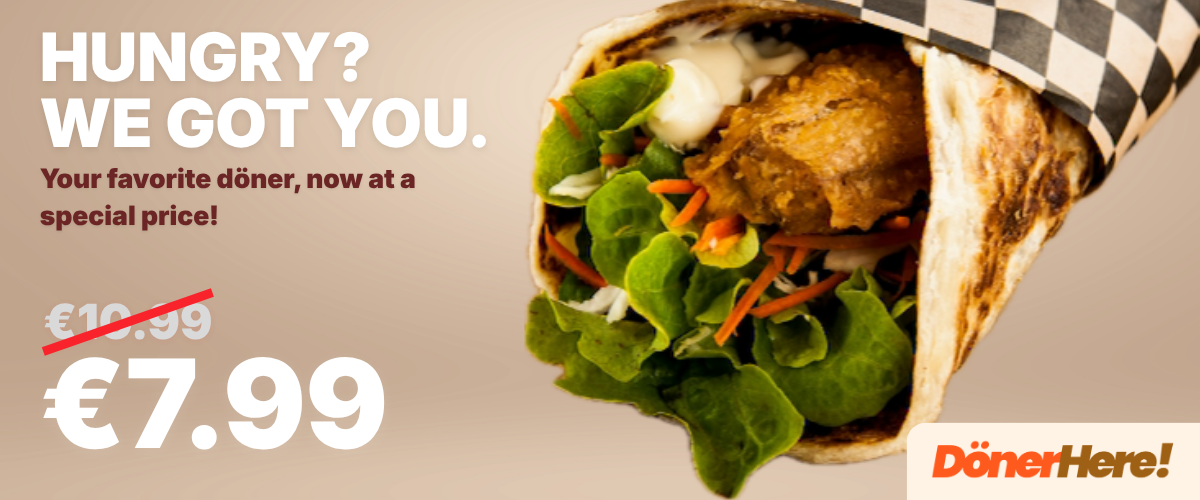
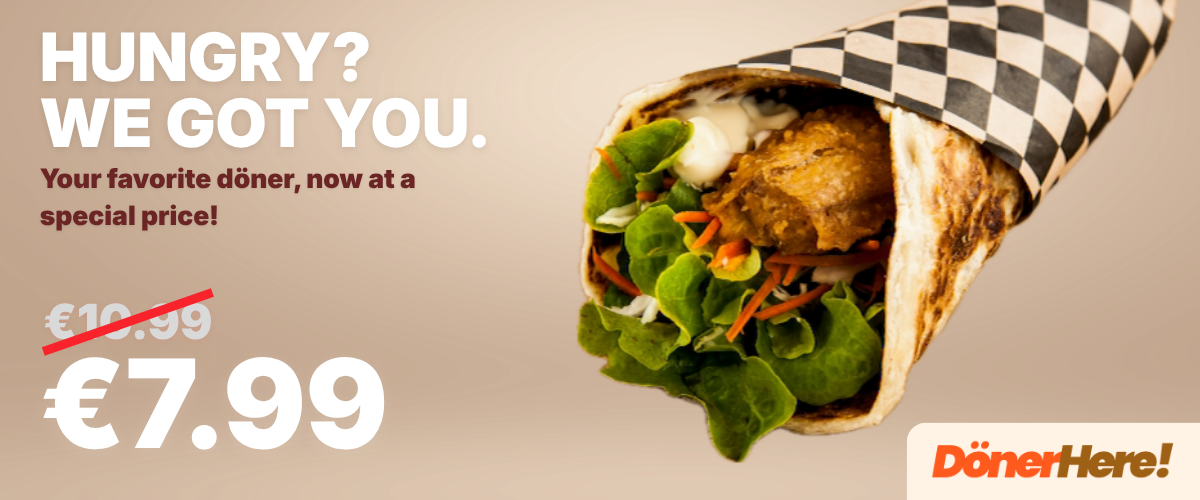
Menu Category Card

diff --git a/src/components/MenuCategoryCard.tsx b/src/components/MenuCategoryCard.tsx
@@ -1,0 +1,47 @@
+type MenuCategoryCardData = {
+  category: string;
+  image: string;
+  link: string;
+};
+
+function MenuCategoryCard({ category, image, link }: MenuCategoryCardData) {
+  return (
+    <>
+      <div className="lg:hidden bg-gray-100 hover:bg-orange-100 p-[10px] rounded-[15px] mr-[10px] ml-[10px]">
+        <a href={link}>
+          <div className="flex flex-1 flex">
+            <div className="w-[100px] h-[100px] flex justify-center">
+              <img
+                src={image}
+                className="object-contain bg-white rounded-[10px]"
+                alt=""
+              />
+            </div>
+            <div className="flex flex-1 justify-center items-center">
+              <p>{category}</p>
+            </div>
+          </div>
+        </a>
+      </div>
+
+      <div className="lg:block hidden max-w-[230px] max-h-[300px]">
+        <div className="bg-gray-100 hover:bg-orange-100 p-[15px] rounded-[15px] mr-[5px] ml-[5px] w-[230px] h-[300px]">
+          <a href={link}>
+            <div>
+              <img
+                src={image}
+                className="aspect-square w-[200px] h-[200px] object-contain bg-white rounded-[7px]"
+                alt=""
+              />
+            </div>
+            <div className="flex h-[80px] items-center justify-center">
+              <p>{category}</p>
+            </div>
+          </a>
+        </div>
+      </div>
+    </>
+  );
+}
+
+export default MenuCategoryCard;

diff --git a/src/pages/Home.tsx b/src/pages/Home.tsx
@@ -1,10 +1,37 @@
+import MenuCategoryCard from "../components/MenuCategoryCard";
 import PromotionCarousel from "../components/PromotionCarousel";
 
 function Home() {
   return (
-    <>
-      <PromotionCarousel></PromotionCarousel>
-    </>
+    <div className="flex justify-center lg:pl-[5px] lg:pr-[5px]">
+      <div className="max-w-[1200px]">
+        <PromotionCarousel></PromotionCarousel>
+        <div className="lg:flex justify-center mt-[10px]">
+          <div className="grid lg:grid-cols-4 gap-[15px]">
+            <MenuCategoryCard
+              category={"Döner Wraps"}
+              image={"src/assets/products/doner-wrap.png"}
+              link={"/menu/Doner-Wraps"}
+            ></MenuCategoryCard>
+            <MenuCategoryCard
+              category={"Fries"}
+              image={"src/assets/products/fries.png"}
+              link={"/menu"}
+            ></MenuCategoryCard>
+            <MenuCategoryCard
+              category={"Desserts"}
+              image={"src/assets/products/baklava.png"}
+              link={"/menu"}
+            ></MenuCategoryCard>
+            <MenuCategoryCard
+              category={"Drinks"}
+              image={"src/assets/products/ayran.png"}
+              link={"/menu"}
+            ></MenuCategoryCard>
+          </div>
+        </div>
+      </div>
+    </div>
   );
 }
 

diff --git a/src/components/Footer.tsx b/src/components/Footer.tsx
@@ -10,9 +10,7 @@ function Footer() {
               alt=""
             />
             <div className="flex flex-col">
-              <a className="hover:text-[#9e6014]" href="">
-                Address, Country
-              </a>
+              <a>Address, Country</a>
               <a className="hover:text-[#9e6014]" href="tel:">
                 Phone number
               </a>
@@ -22,7 +20,7 @@ function Footer() {
             </div>
           </div>
         </div>
-        <div className="flex flex-1 w-full h-full  justify-center items-center flex-col pt-[15px]">
+        <div className="flex flex-1 w-full h-full  justify-center items-center flex-col">
           <div className="flex flex-row md:gap-[40px] gap-[50px] justify-center">
             <div>
               <p className="opacity-50">Explore</p>
@@ -63,9 +61,7 @@ function Footer() {
           </div>
           <div className="md:hidden flex flex-col mt-[20px] text-center">
             <div className="flex flex-col">
-              <a className="hover:text-[#9e6014]" href="">
-                Address, Country
-              </a>
+              <a>Address, Country</a>
               <a className="hover:text-[#9e6014]" href="tel:">
                 Phone number
               </a>

diff --git a/src/components/PromotionCarousel.tsx b/src/components/PromotionCarousel.tsx
@@ -11,7 +11,7 @@ function PromotionCarousel() {
   return (
     <div className="flex w-full justify-center align-middle items-center group overflow-hidden">
       <Carousel
-        className="max-h-[500px] w-[100%] max-w-[1200px]"
+        className="max-h-[500px] max-w-[1200px] h-full w-full lg:rounder-[15px]"
         plugins={[
           Autoplay({
             delay: 5000,
@@ -25,7 +25,7 @@ function PromotionCarousel() {
               <img
                 src="src/assets/promotions/promotion.png"
                 alt=""
-                className="flex justify-center align-middle items-center w-full h-full md:rounded-[15px]"
+                className="flex justify-center align-middle items-center w-full h-full lg:rounded-[15px]"
               />
             </a>
           </CarouselItem>
@@ -34,7 +34,7 @@ function PromotionCarousel() {
               <img
                 src="src/assets/promotions/promotion2.png"
                 alt=""
-                className="flex justify-center align-middle items-center w-full h-full md:rounded-[15px]"
+                className="flex justify-center align-middle items-center w-full h-full lg:rounded-[15px]"
               />
             </a>
           </CarouselItem>

diff --git a/src/components/Navbar.tsx b/src/components/Navbar.tsx
@@ -106,9 +106,11 @@ function Navbar() {
             <SheetContent>
               <div className="flex w-full h-[15px]"></div>
               <div className="flex w-full h-full justify-center items-center">
-                <div className="text-[24px] font-bold p-[20px] text-center">
+                <div className="text-[24px] font-semibold  p-[20px] text-center">
                   <p>Your cart is empty</p>
-                  <p>Add something delicious!</p>
+                  <p className="text-[12px] text-gray-400">
+                    Add something delicious!
+                  </p>
                 </div>
               </div>
               <div>
@@ -162,7 +164,7 @@ function Navbar() {
             </SheetTrigger>
             <SheetContent>
               <div className="flex w-full h-[15px]"></div>
-              <div className="text-[24px] font-bold p-[20px]">
+              <div className="text-[24px] font-semibold p-[20px]">
                 <nav>
                   <a href="" className="flex w-full hover:text-[#9e6014]">
                     Menu

diff --git a/src/components/FoodCard.tsx b/src/components/FoodCard.tsx
@@ -7,10 +7,10 @@ type ProductCardData = {
 
 function ProductCard({ name, price, oldPrice, image }: ProductCardData) {
   return (
-    <div className="flex flex-col md:w-[250px] md:h-[350px] w-[180px] h-[300px] bg-gray-100 p-[15px] rounded-[15px]">
-      <div className="flex flex-col align-center overflow-hidden aspect-square md:h-[230px] h-[150px] max-h-[150px]">
+    <div className="flex flex-col sm:w-[250px] sm:h-[350px] w-[180px] h-[300px] bg-gray-100 p-[15px] rounded-[15px]">
+      <div className="flex flex-col align-center overflow-hidden aspect-square sm:h-[230px] max-h-[200px]">
         <img
-          className="object-contain w-full max-h-[200px] h-[200px] bg-white rounded-[15px]"
+          className="object-contain w-full h-full bg-white rounded-[15px]"
           src={image}
           alt=""
         />

diff --git a/@/components/ui/carousel.tsx b/@/components/ui/carousel.tsx
@@ -136,7 +136,7 @@ function CarouselContent({ className, ...props }: React.ComponentProps<"div">) {
   return (
     <div
       ref={carouselRef}
-      className="overflow-hidden"
+      className="overflow-hidden lg:rounded-[15px]"
       data-slot="carousel-content"
     >
       <div
